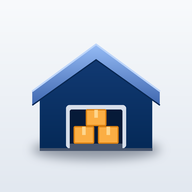
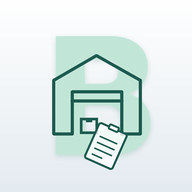
V1.9

diff --git a/index.html b/index.html
@@ -70,6 +70,16 @@ body{overflow-x:hidden}
 .hint2{color:var(--mu);font-size:.85rem;margin:6px 2px 12px}
 .emp{display:flex;flex-direction:column;align-items:center;text-align:center;gap:14px;padding:26px 10px 10px}.emp svg{width:200px;max-width:70%;height:auto}.emp p{margin:0;max-width:260px}
 .foot{display:flex;align-items:center;justify-content:space-between;gap:10px;margin:28px 2px 0;color:var(--mu);font-size:.8rem}.vp{padding:4px 10px;border-radius:8px;background:var(--card);border:1px solid var(--bd)}
+.hdr .ap{border-radius:22%;filter:none;box-shadow:0 4px 12px rgba(0,0,0,.22)}
+.bl{display:flex;flex-direction:column;gap:8px;margin:6px 0}
+.br{display:flex;align-items:center;gap:10px;padding:10px 12px;background:var(--card);border:1px solid var(--bd);border-radius:14px;box-shadow:0 4px 14px rgba(var(--sh),.10),inset 0 1px 0 rgba(255,255,255,.35);-webkit-backdrop-filter:blur(14px) saturate(1.5);backdrop-filter:blur(14px) saturate(1.5);cursor:pointer}.br:active{transform:scale(.99)}
+.bn{flex:none;width:20px;color:var(--mu);font-weight:600;font-size:.9rem}
+.bi2{flex:none;width:40px;height:40px;border-radius:10px;display:flex;align-items:center;justify-content:center;background:rgba(16,185,129,.16);color:#0f766e}.bi2.al{background:rgba(245,158,11,.2);color:#b45309}
+.br .bt b{font-size:1.02rem}.br .bt small{color:var(--mu)}
+.bm{flex:none;display:flex;flex-direction:column;align-items:flex-end;gap:3px;font-size:.88rem}.bc2{color:var(--mu);white-space:nowrap}
+.bs{display:flex;align-items:center;gap:5px;font-weight:700;white-space:nowrap}.bs.ok{color:var(--fg)}.bs.al{color:#b91c1c}.bs svg{flex:none}
+html.dark .bs.al{color:#fca5a5}html.dark .bi2{color:#5eead4}html.dark .bi2.al{color:#fbbf24}
+@media(min-width:520px){.bm{flex-direction:row;align-items:center;gap:22px;font-size:.95rem}.bc2{min-width:80px;text-align:right}}
 .srow{display:flex;gap:10px;align-items:stretch;margin:0 0 6px}.srow .sb{flex:1;min-width:0}.srow .tbox{width:52px;border-radius:14px}
 .top .sec{cursor:pointer}.sec.c .pn{position:relative;z-index:1;flex:none;margin-left:8px;font-size:1.05rem;opacity:.85}
 .nt .xd{flex:none;align-self:flex-start;width:32px;height:32px;padding:0;border:0;border-radius:50%;background:transparent;color:var(--mu);font-size:1.1rem;line-height:1}
@@ -139,7 +149,14 @@ if(mq.addEventListener)mq.addEventListener('change',()=>{if(UI.m==='auto')applyU
 applyUI();
 function setUI(k,v){UI[k]=v;try{localStorage.setItem('inv-ui',JSON.stringify(UI))}catch(e){}applyUI();render()}
 // AL ENTREGAR UNA VERSIÓN NUEVA: subir APP_V, agregar su entrada arriba en CHANGES y subir la caché en sw.js
-const APP_V='1.7',CHANGES=[
+const APP_V='1.9',CHANGES=[
+ {v:'1.9',f:'2026-11-17',t:'Lista de bodegas e icono nuevo',d:[
+  'Bodegas: ahora se listan numeradas, con su icono, nombre, cantidad de ítems y estado (OK o alertas de insumos con stock bajo de 7).',
+  'Icono nuevo de la app, dentro de la app y al instalarla: bodega con una B de fondo y un portapapeles. Para ver el icono nuevo en la pantalla de inicio hay que reinstalar la app.']},
+ {v:'1.8',f:'2026-11-17',t:'Actualización más confiable',d:[
+  'Corregido: el botón "Reiniciar ahora" ahora limpia lo guardado y recarga la app con los archivos más nuevos. Tus datos no se borran.',
+  'Configuración: nuevo botón "Actualizar app ahora" para forzar la actualización cuando quieras.',
+  'Al abrir la app con internet, siempre se busca primero la versión más reciente.']},
  {v:'1.7',f:'2026-11-17',t:'Un solo botón para crear bodegas',d:[
   'Pantalla principal: se quitó el botón "Crear primera bodega"; las bodegas se crean solo con "Nueva bodega +".']},
  {v:'1.6',f:'2026-11-17',t:'Nueva pantalla principal',d:[
@@ -167,10 +184,20 @@ function chkUpd(){let prev=null,has=false;try{prev=localStorage.getItem('inv-ver
  if(prev===APP_V)return;
  if(prev||has){const c=CHANGES.find(x=>x.v===APP_V);notif(`Versión ${APP_V}${c?': '+c.t:''}`,'up',c?c.d:[]);try{localStorage.setItem('inv-upd',APP_V)}catch(e){}}
  try{localStorage.setItem('inv-ver',APP_V)}catch(e){}}
+function goTo(u){location.replace(u)}
+async function applyUpd(bt){
+ if(bt&&bt.tagName==='BUTTON'){bt.textContent='Actualizando…';bt.disabled=true}
+ try{
+  if(navigator.onLine){
+   if('serviceWorker' in navigator){const rs=await navigator.serviceWorker.getRegistrations();await Promise.all(rs.map(r=>r.unregister()))}
+   if(window.caches){const ks=await caches.keys();await Promise.all(ks.map(k=>caches.delete(k)))}
+  }
+ }catch(e){}
+ goTo(location.pathname+'?r='+Date.now())}
 function clrUpd(){try{localStorage.removeItem('inv-upd')}catch(e){}}
 const updBan=()=>{let u='';try{u=localStorage.getItem('inv-upd')||''}catch(e){}if(u!==APP_V)return '';const c=CHANGES.find(x=>x.v===APP_V);
   return `<div class="ban ok"><b>✨ App actualizada a la versión ${APP_V}</b>${c?`<br>${esc(c.t)}`:''}<div class=bk><button onclick="ntf=true;clrUpd();render()">Ver novedades</button><button class=imp onclick="clrUpd();render()">Cerrar</button></div></div>`},
- rldBan=()=>updReady?`<div class="ban ok"><b>🔄 Actualización lista</b><br>Reinicia la app para usar la versión nueva.<div class=bk><button onclick="location.reload()">Reiniciar ahora</button><button class=imp onclick="updReady=false;render()">Después</button></div></div>`:'';
+ rldBan=()=>updReady?`<div class="ban ok"><b>🔄 Actualización lista</b><br>Reinicia la app para usar la versión nueva.<div class=bk><button onclick="applyUpd(this)">Reiniciar ahora</button><button class=imp onclick="updReady=false;render()">Después</button></div></div>`:'';
 const AFO=[['d','Diariamente'],['w','Semanalmente'],['m','Mensualmente']],AFN={d:'diaria',w:'semanal',m:'mensual'},
  AINFO={d:'Se crea una copia una vez al día, al abrir la app.',w:'Se crea una copia cada 7 días, al abrir la app.',m:'Se crea una copia una vez al mes, al abrir la app.'},
  AK='inv-auto',SK='inv-snaps',NK='inv-notif',NS='inv-notif-seen',
@@ -190,8 +217,12 @@ const AFO=[['d','Diariamente'],['w','Semanalmente'],['m','Mensualmente']],AFN={d
  NDK='inv-ndis',NDIS=()=>{try{return JSON.parse(localStorage.getItem(NDK)||'[]')}catch(e){return []}},lkey=(b,p,q)=>`${b.id}:${p.id}:${q}`,
  lowItems=()=>{const d=NDIS(),r=[];db.b.forEach(b=>{if(b.t==='herr')return;b.p.forEach(p=>{const q=stock(b,p);if(q<7&&!d.includes(lkey(b,p,q)))r.push({b,p,q})})});return r.sort((x,y)=>x.q-y.q)},
  bellBadge=()=>{const n=unseen()+lowItems().length;return n?`<span class=bd>${n>99?'99+':n}</span>`:''};
[2 lines of base64/hex data omitted]
 const EMPTYSVG='<svg viewBox="0 0 200 140" fill="none" stroke="currentColor" stroke-width="3" stroke-linecap="round" stroke-linejoin="round" style="color:var(--mu);opacity:.45"><path d="M20 62 100 14l80 48"/><path d="M32 56v70h136V56"/><rect x="66" y="78" width="68" height="48" rx="3"/><path d="M66 92h68M66 106h68"/><rect x="146" y="94" width="40" height="32" rx="3"/><path d="M146 104h40"/><rect x="12" y="104" width="34" height="22" rx="3"/></svg>';
+const WH=IC('<path d="M3 10.5 12 4l9 6.5V20H3z"/><path d="M8 20v-6h8v6"/><path d="M8 17h8"/>',2),
+ TOOL=IC('<path d="M14.7 6.3a1 1 0 0 0 0 1.4l1.6 1.6a1 1 0 0 0 1.4 0l3.77-3.77a6 6 0 0 1-7.94 7.94l-6.91 6.91a2.12 2.12 0 0 1-3-3l6.91-6.91a6 6 0 0 1 7.94-7.94l-3.76 3.76z"/>',2),
+ WARN='<svg width="18" height="18" viewBox="0 0 24 24"><path d="M12 3 2 21h20L12 3z" fill="#f59e0b"/><path d="M12 10v5M12 18h.01" stroke="#fff" stroke-width="2.2" stroke-linecap="round" fill="none"/></svg>',
+ OKI='<svg width="18" height="18" viewBox="0 0 24 24"><rect x="3" y="3" width="18" height="18" rx="4" fill="#16a34a"/><path d="M8 12.5l3 3 5-6" stroke="#fff" stroke-width="2.4" fill="none" stroke-linecap="round" stroke-linejoin="round"/></svg>';
 const SRCH=IC('<circle cx="11" cy="11" r="7"/><path d="M21 21l-4.3-4.3"/>',2.4);
 function delN(id){try{localStorage.setItem(NK,JSON.stringify(NLOG().filter(x=>x.id!==id)))}catch(e){}render()}
 function disL(bid,pid){const b=db.b.find(x=>x.id===bid),p=b&&b.p.find(x=>x.id===pid);if(!p)return;const d=NDIS();d.push(lkey(b,p,stock(b,p)));try{localStorage.setItem(NDK,JSON.stringify(d.slice(-200)))}catch(e){}render()}
@@ -230,7 +261,8 @@ function vCfg(){
  <p class=mu>${sn.length?'Estas copias viven dentro de la app: sirven si algo se borra o se importa mal, pero se pierden al desinstalar. Para reinstalar con seguridad, guarda el archivo con el botón ⬇ de la copia y, ya reinstalada la app, cárgalo con el botón de abajo.':'Aún no hay copias guardadas. Activa la copia automática para que se cree una; entonces aparecerá aquí con su botón ⬇ para guardarla como archivo. Si ya tienes un archivo de copia, cárgalo con el botón de abajo.'}</p>
  <div class=bk><label class=imp>⬆ Cargar copia desde archivo<input type=file accept=".json,application/json" onchange="impB(this)" hidden></label></div>
  <div id=bkm></div>
- <h3>Acerca de</h3><p class=mu>Versión de la app: <b>${APP_V}</b>. Cada vez que la app se actualiza, te avisamos con los detalles en la campana 🔔.</p>`}
+ <h3>Acerca de</h3><p class=mu>Versión de la app: <b>${APP_V}</b>. Cada vez que la app se actualiza, te avisamos con los detalles en la campana 🔔.</p>
+ <div class=bk><button class="imp" onclick="applyUpd(this)">🔄 Actualizar app ahora</button></div><p class=mu>Si la app no se actualiza sola, este botón la recarga con los archivos más nuevos. Tus datos no se borran.</p>`}
 const lastBk=()=>{try{return localStorage.getItem('inv-bk')||'nunca'}catch(e){return 'nunca'}},bkm=t=>{const e=$('#bkm');if(e)e.innerHTML=t},
  bkBad=t=>bkm(`<div class="ban bad">${t}</div>`);
 async function saveFile(txt,name){
@@ -254,7 +286,8 @@ function homeV(){
  const hdr=`<div class=hdr><img class=ap src="${APPIC}" alt="Mis Bodegas"><div class=sb><input type=search id=q placeholder="Buscar" value="${esc(qs)}" oninput="qs=this.value;doS()" aria-label="Buscar"><span id=ql class=ql>${SRCH}</span><button type=button id=qc class=qc onclick="clrS()" aria-label="Borrar búsqueda" title="Borrar búsqueda">✕</button></div><button class=tbox onclick="cfg=true;render()" title="Configuración" aria-label="Configuración">${GEAR}</button><button class=tbox onclick="ntf=true;render()" title="Notificaciones" aria-label="Notificaciones">${BELL}${bellBadge()}</button></div>`,
   bar=`<div class="sec mb"><b>Mis bodegas</b><button class=nb onclick="nbOpen=!nbOpen;render()" aria-expanded="${nbOpen}">Nueva bodega +</button></div>`,
   form=nbOpen?`<div class=tcards>${[['ins','📦','Insumos','Consumo y reposición.'],['herr','🔧','Herramientas','Total y ajustes.']].map(([k,i,n,d])=>`<button type=button class="tc ${nbType===k?'on':''}" onclick="nbType='${k}';render()"><span class=tn>${i} ${n}</span><small>${d}</small>${nbType===k?'<i class=ck>✓</i>':''}</button>`).join('')}</div><p class=hint2>Insumos: consumo, conteo y reposición · Herramientas: total y ajustes</p><form class="row crt" onsubmit="addB(event)"><input id=nb placeholder="Nombre de la bodega" required><button>Crear</button><button type=button class=ghost onclick="nbOpen=false;render()">Cancelar</button></form>`:'',
-  list=db.b.map(b=>`<div class=bc onclick="openB('${b.id}')"><span class=bi>${b.t==='herr'?'🔧':'📦'}</span><span class=bt><b>${esc(b.n)}</b></span><span class=cnt title="Cantidad">${b.p.length}</span><span class=ch>›</span></div>`).join(''),
+  list=db.b.length?`<div class=bl>${db.b.map((b,i)=>{const n=b.t==='herr'?0:b.p.filter(p=>stock(b,p)<7).length,al=n>0,c=b.p.length;
+   return `<div class=br onclick="openB('${b.id}')"><span class=bn>${i+1}.</span><span class="bi2 ${al?'al':''}">${b.t==='herr'?TOOL:WH}</span><span class=bt><b>${esc(b.n)}</b><small>Bodega</small></span><span class=bm><span class=bc2>${c} ${c===1?'ítem':'ítems'}</span>${al?`<span class="bs al">${WARN}${n} ${n===1?'alerta':'alertas'}</span>`:`<span class="bs ok">${OKI}OK</span>`}</span></div>`}).join('')}</div>`:'',
   emp=!db.b.length&&!nbOpen?`<div class=emp>${EMPTYSVG}<p>Organiza tus insumos y herramientas de almacenamiento.</p></div>`:'',
   foot=`<div class=foot><span>© Bodega Inventario</span><span class=vp>Versión ${APP_V}</span></div>`;
  return `${rldBan()}${updBan()}${bkBan()}${hdr}<div id=sr></div>${bar}${form}${list}${emp}${foot}`}
@@ -397,6 +430,7 @@ function addR(e){e.preventDefault();const b=B(),q=+$('#rq').value;if(!(q>0))retu
  b.mov.push({id:uid(),f:today(),h:hh(),p:$('#rp').value,t:'in',q,r:'Reposición',o:''});save();render()}
 function delM(id){const b=B();b.mov=b.mov.filter(m=>m.id!==id);msg='';save();render()}
 
+if(/[?&]r=\d+/.test(location.search))history.replaceState(null,'',location.pathname+location.hash);
 chkUpd();autoBk();render();
 if('serviceWorker' in navigator){const had=!!navigator.serviceWorker.controller;navigator.serviceWorker.addEventListener('controllerchange',()=>{if(had){updReady=true;if(!cur&&!cfg&&!ntf)render()}})}
 const tick=()=>{if(autoBk()&&!cur)render()};document.addEventListener('visibilitychange',()=>{if(!document.hidden)tick()});setInterval(tick,30*60*1000);

diff --git a/sw.js b/sw.js
@@ -1,4 +1,11 @@
-const C='inv-v31',A=['./','index.html','manifest.json','icon-192.png','icon-512.png'];
-self.addEventListener('install',e=>e.waitUntil(caches.open(C).then(c=>c.addAll(A)).then(()=>self.skipWaiting())));
+const C='inv-v33',A=['./','index.html','manifest.json','icon-192.png','icon-512.png'];
+self.addEventListener('install',e=>e.waitUntil(caches.open(C).then(c=>Promise.all(A.map(u=>fetch(new Request(u,{cache:'reload'})).then(r=>{if(!r.ok)throw new Error(u);return c.put(u,r)}))))
+ .then(()=>self.skipWaiting())));
 self.addEventListener('activate',e=>e.waitUntil(caches.keys().then(k=>Promise.all(k.filter(x=>x!==C).map(x=>caches.delete(x))))));
-self.addEventListener('fetch',e=>e.respondWith(caches.match(e.request).then(r=>r||fetch(e.request))));
+self.addEventListener('fetch',e=>{const r=e.request;if(r.method!=='GET')return;
+ if(r.mode==='navigate'){
+  e.respondWith(Promise.race([fetch(r,{cache:'no-cache'}),new Promise((_,j)=>setTimeout(j,3500))])
+   .then(res=>{if(res.ok){const cp=res.clone();caches.open(C).then(c=>c.put('index.html',cp))}return res})
+   .catch(()=>caches.match('index.html').then(x=>x||caches.match('./')).then(x=>x||new Response('Sin conexión',{status:503}))));
+  return}
+ e.respondWith(caches.match(r).then(x=>x||fetch(r)))});
